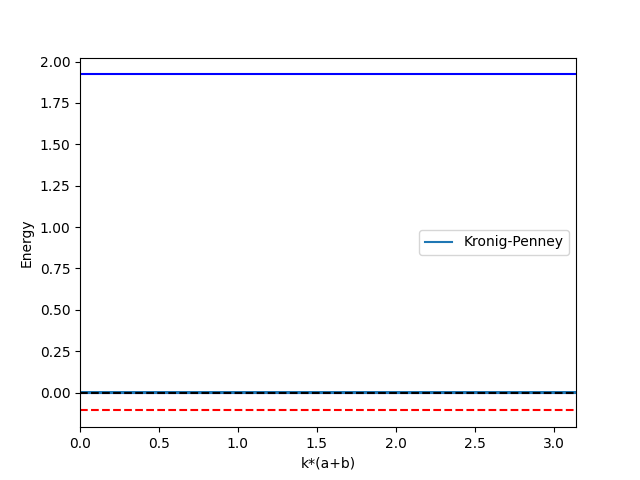
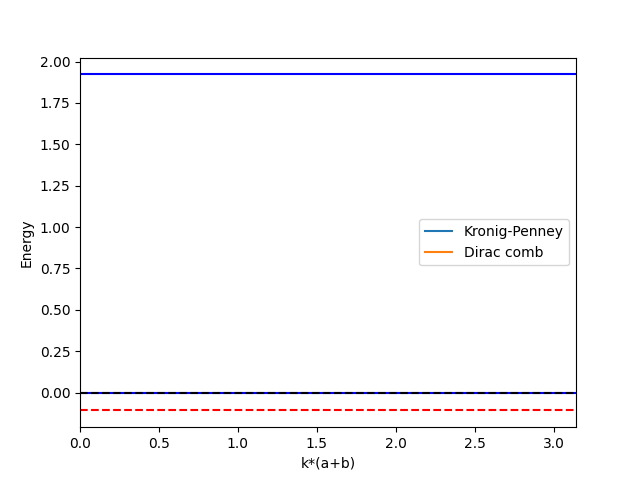
commit changes

diff --git a/task3/runfile.py b/task3/runfile.py
@@ -14,11 +14,11 @@ matplotlib.rc('axes.formatter', useoffset=False)
 def periodic_potential(u):
     m = 0.063 * me
     U0 = -u * eV  # '-' потенцияальная яма
-    a = 100 * unit('nm')
-    b = 200 * unit('nm')
+    a = 10 * 1e-9 * unit('nm')
+    b = 5 * 1e-9 * unit('nm')
 
     kp_model = KronigPenneyModel(a, b, U0)
-    # dc_model = DiracCombModel(a + b, a * U0)s
+    dc_model = DiracCombModel(a + b, a * U0)
 
     es = np.linspace(-0.001 * eV, 0.001 * eV, 100000)
 
@@ -27,8 +27,8 @@ def periodic_potential(u):
 
     print(es/eV)
 
-    # ks = dc_model.get_ks(es, m)
-    # plt.plot(ks, es / eV, label='Dirac comb')
+    ks = dc_model.get_ks(es, m)
+    plt.plot(ks, es / eV, label='Dirac comb')
 
     plt.axhline(0, color='k', linestyle='--')
     plt.xlim(0, pi)
